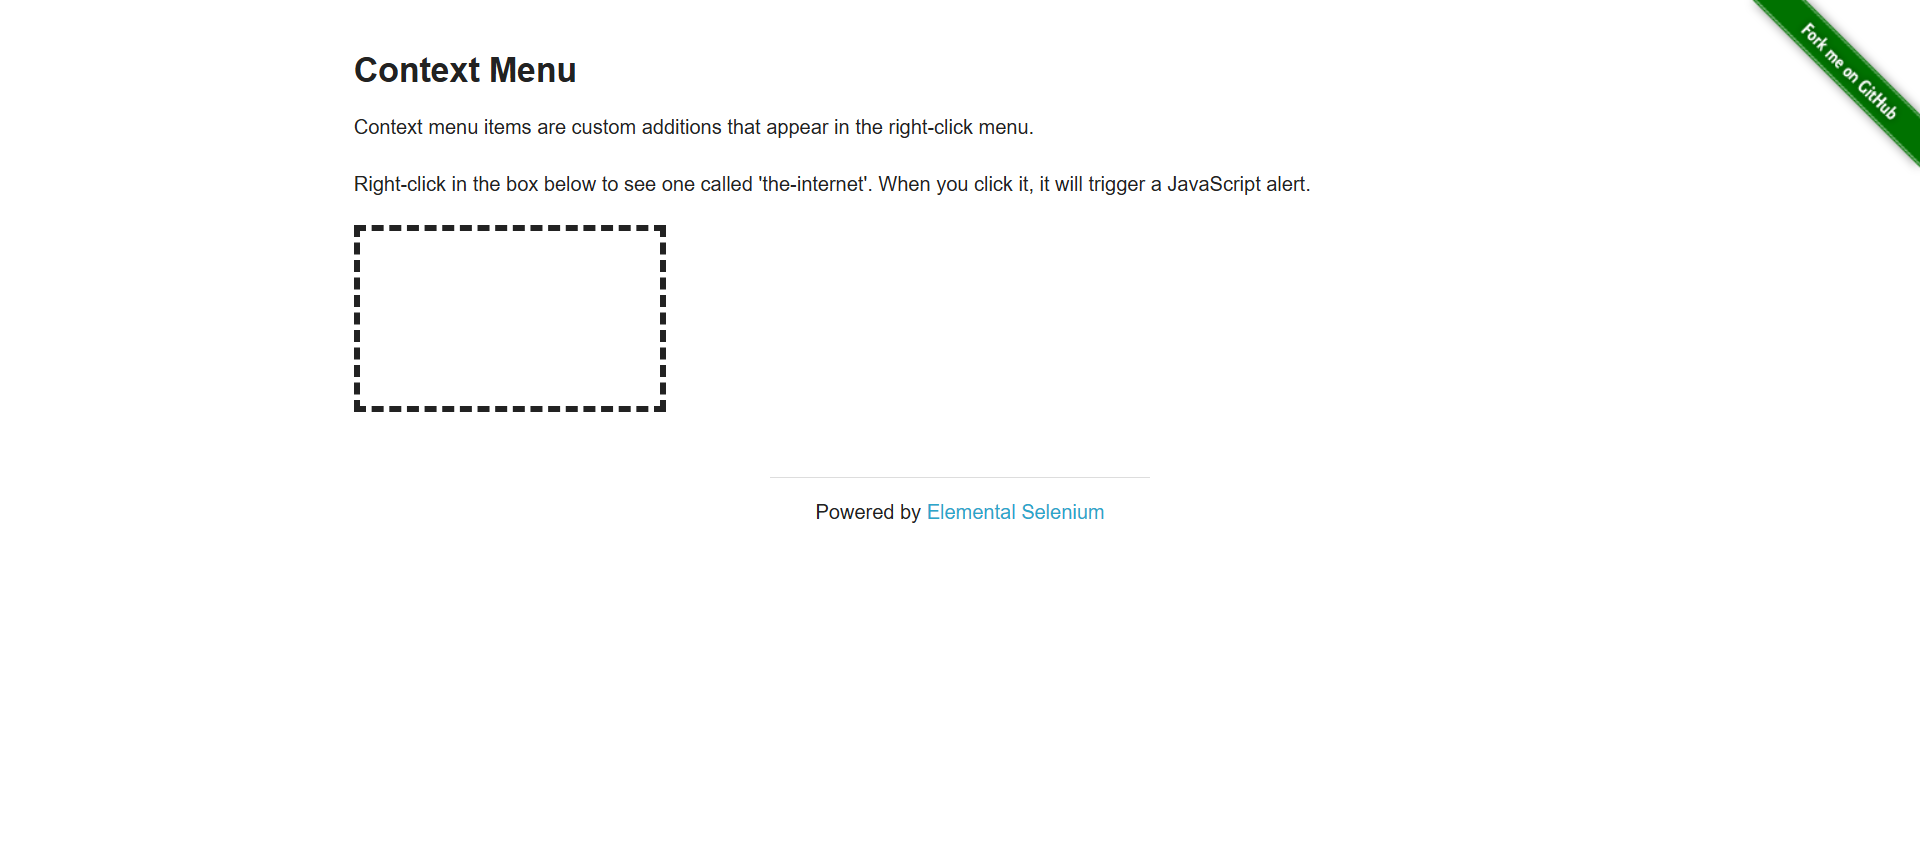
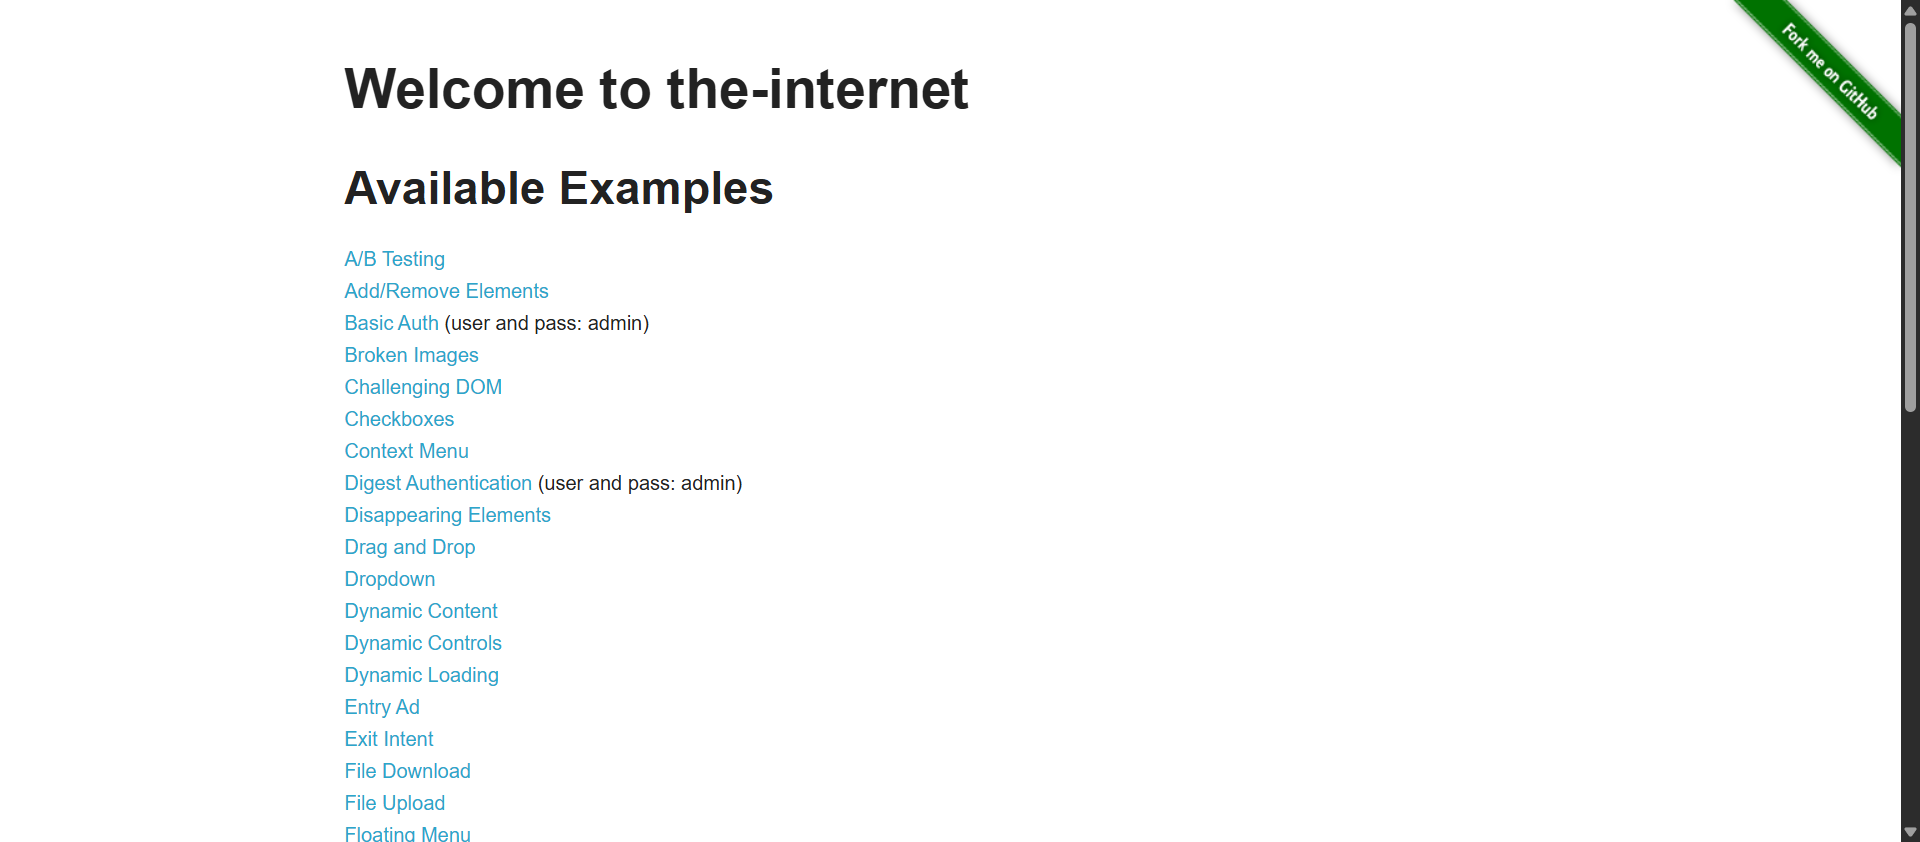
checkbox page locators and Page class

diff --git a/pages/pages/checkbox_page.py b/pages/pages/checkbox_page.py
@@ -1,0 +1,22 @@
+
+from pages.locators.checkbox_page_locators import Checkbox_page_locators
+from selenium.webdriver.support.ui import WebDriverWait
+
+
+
+class Select_Checkboxes():
+    def __init__(self, driver):
+        self.driver = driver 
+        self.waitait = WebDriverWait(driver,10)
+
+    def get_checkboxes(self):
+        return self.driver.find_elements(*Checkbox_page_locators.CHECKBOX)
+
+    def select_checkbox(self, index):
+        checkboxes = self.get_checkboxes()[index]
+
+        if not checkboxes.is_selected():
+            checkboxes.click()
+
+    def is_checkbox_selected(self, index):
+        return self.get_checkboxes()[index].is_selected()

diff --git a/test/test_checkboxes.py b/test/test_checkboxes.py
@@ -1,0 +1,9 @@
+from pages.pages.checkbox_page import Select_Checkboxes
+from pages.pages.landing_page import LandingPage
+
+
+def test_check_box(driver):
+
+    lp = LandingPage(driver)
+    lp.click_checkbox_link
+

diff --git a/pages/locators/checkbox_page_locators.py b/pages/locators/checkbox_page_locators.py
@@ -1,0 +1,7 @@
+from selenium.webdriver.common.by import By
+
+
+class Checkbox_page_locators():
+    CHECKBOXES_PAGE_TITLE = (By.XPATH, "//div[@class='example']/h3[contains(text(), 'Checkbox')]")
+    CHECKBOX = (By.XPATH, "//form[@id = 'checkboxes']/input[@type='checkbox']")
+

diff --git a/pages/pages/landing_page.py b/pages/pages/landing_page.py
@@ -19,4 +19,10 @@ class LandingPage:
     def click_context_menu_link(self):
         context_menu_link = self.driver.find_element(*LandingPageLocators.CONTEXT_MENU_PAGE_LINK)
         context_menu_link.click()
+
+    def click_checkbox_link(self):
+        checkbox = self.driver.find_element(*LandingPageLocators.CHECK_BOXE_PAGE)
+        checkbox.click()
+
+        
         

diff --git a/pages/locators/landing_page_locators.py b/pages/locators/landing_page_locators.py
@@ -6,6 +6,7 @@ class LandingPageLocators:
     ADD_REMOVE_ELEMENTS_PAGE_LINK = (By.XPATH, "*//a[contains(text(), 'Add/Remove Elements')]")
     BASIC_AUTH_PAGE_LINK = (By.XPATH, "//a[text() = 'Basic Auth']")
     CONTEXT_MENU_PAGE_LINK = (By.XPATH, "//a[contains(text(), 'Context Menu')]")
-
+    CHECK_BOXE_PAGE = (By.XPATH, "//a[contains(normalize-space(), 'Checkboxes')]")
+    
     
     